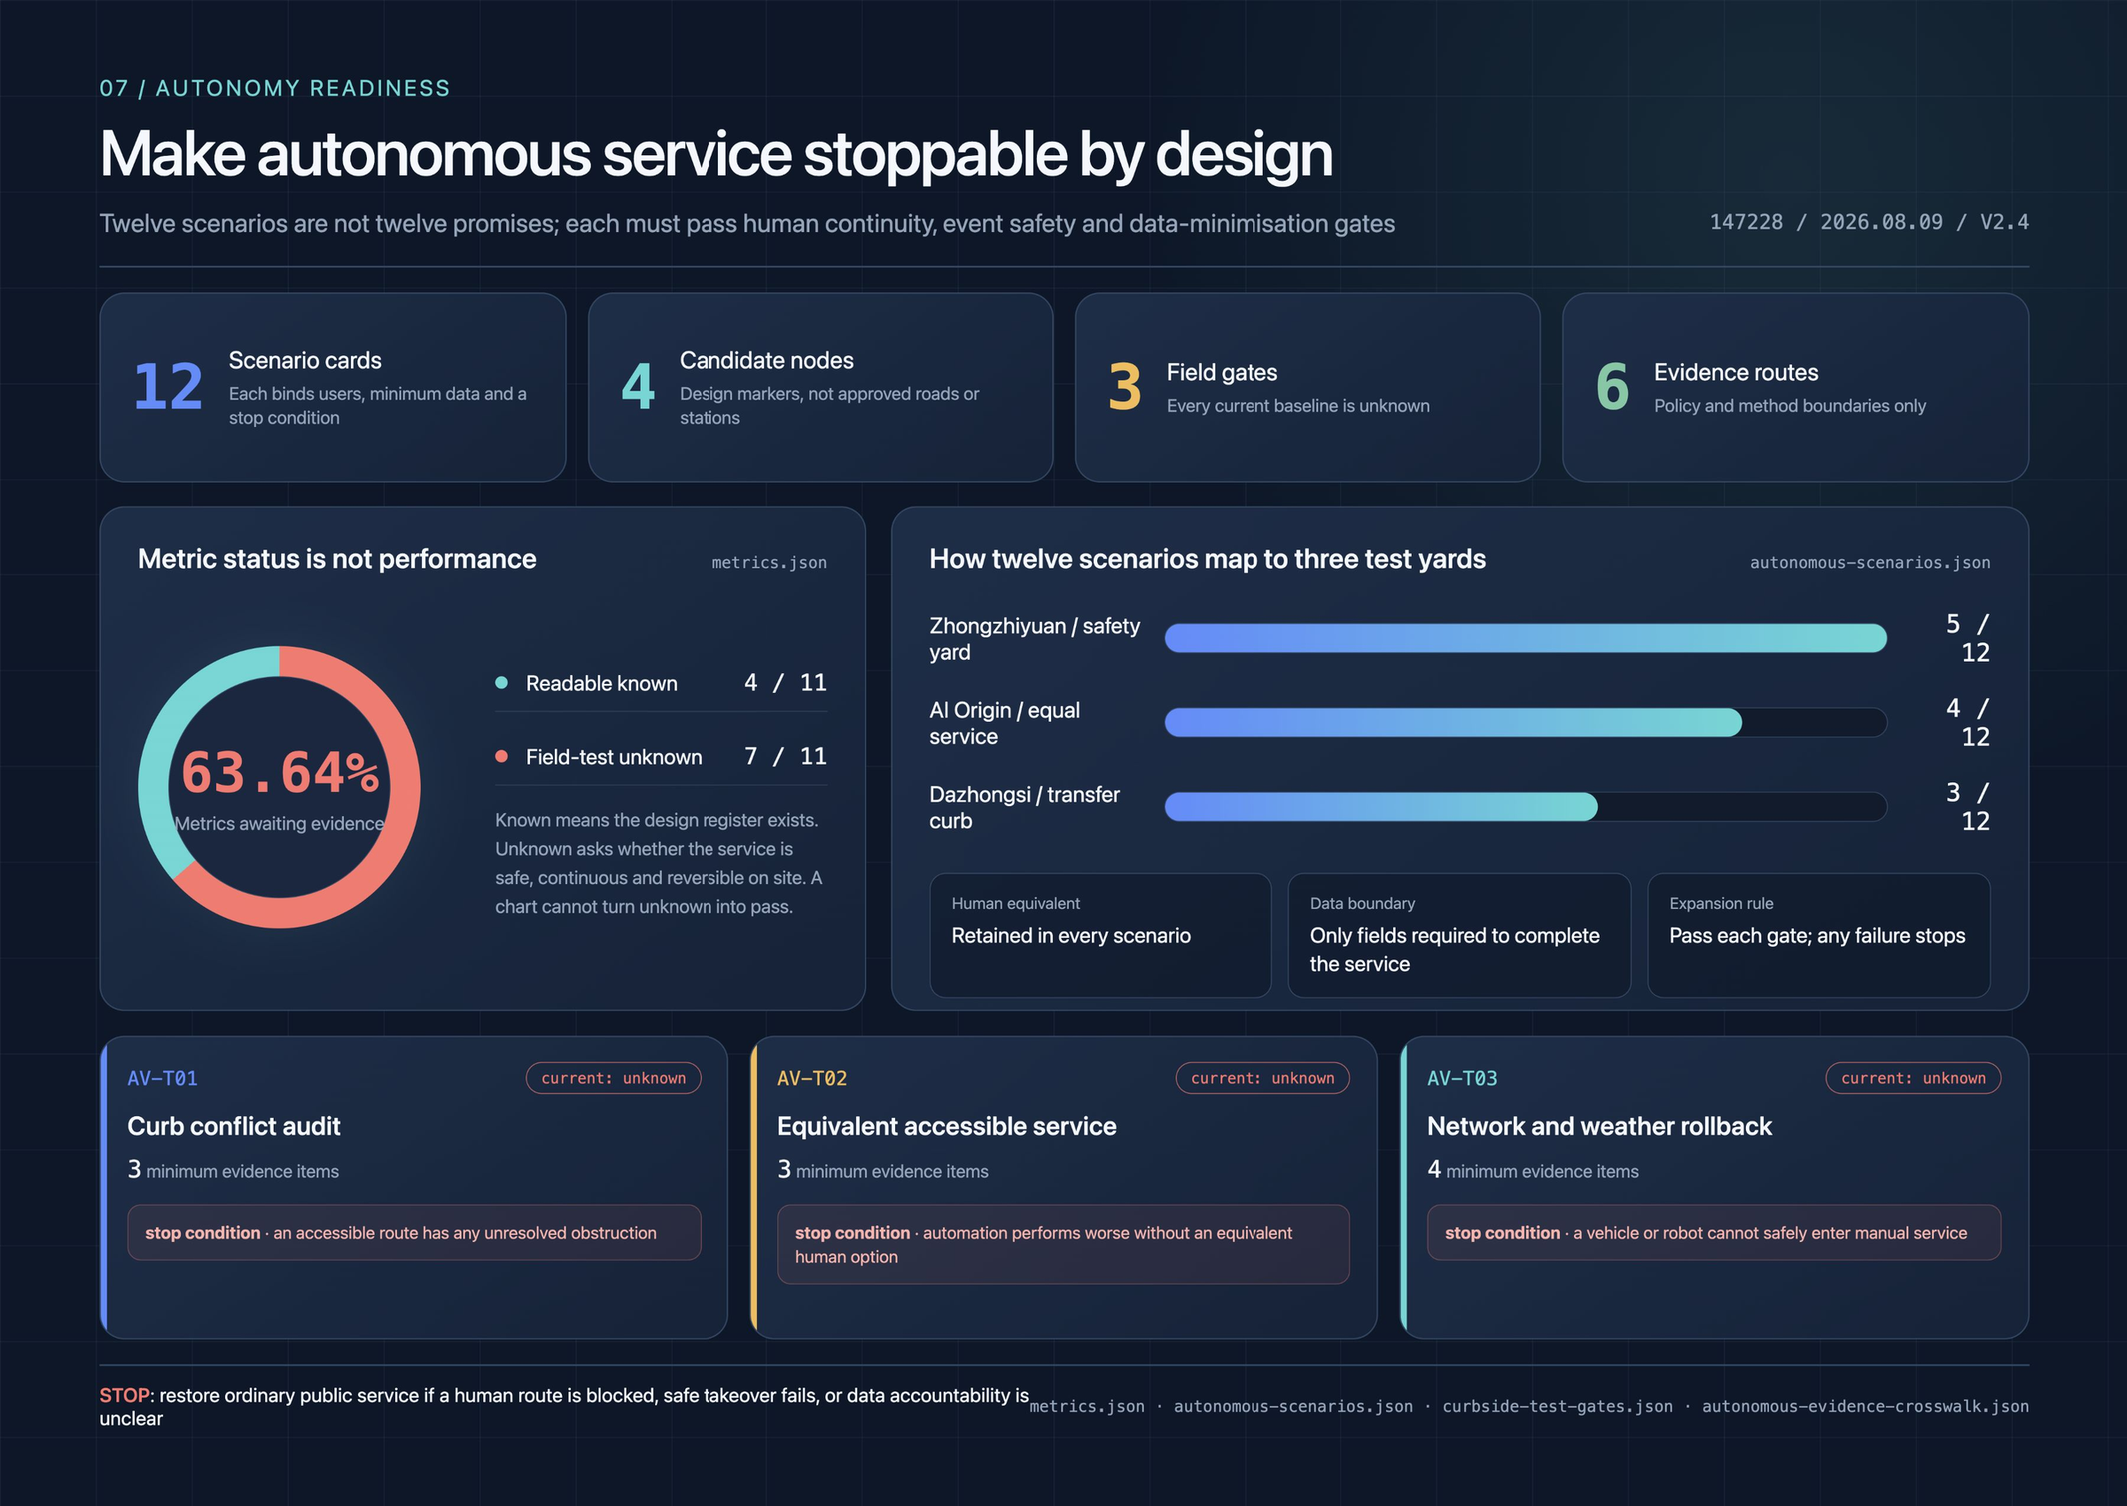
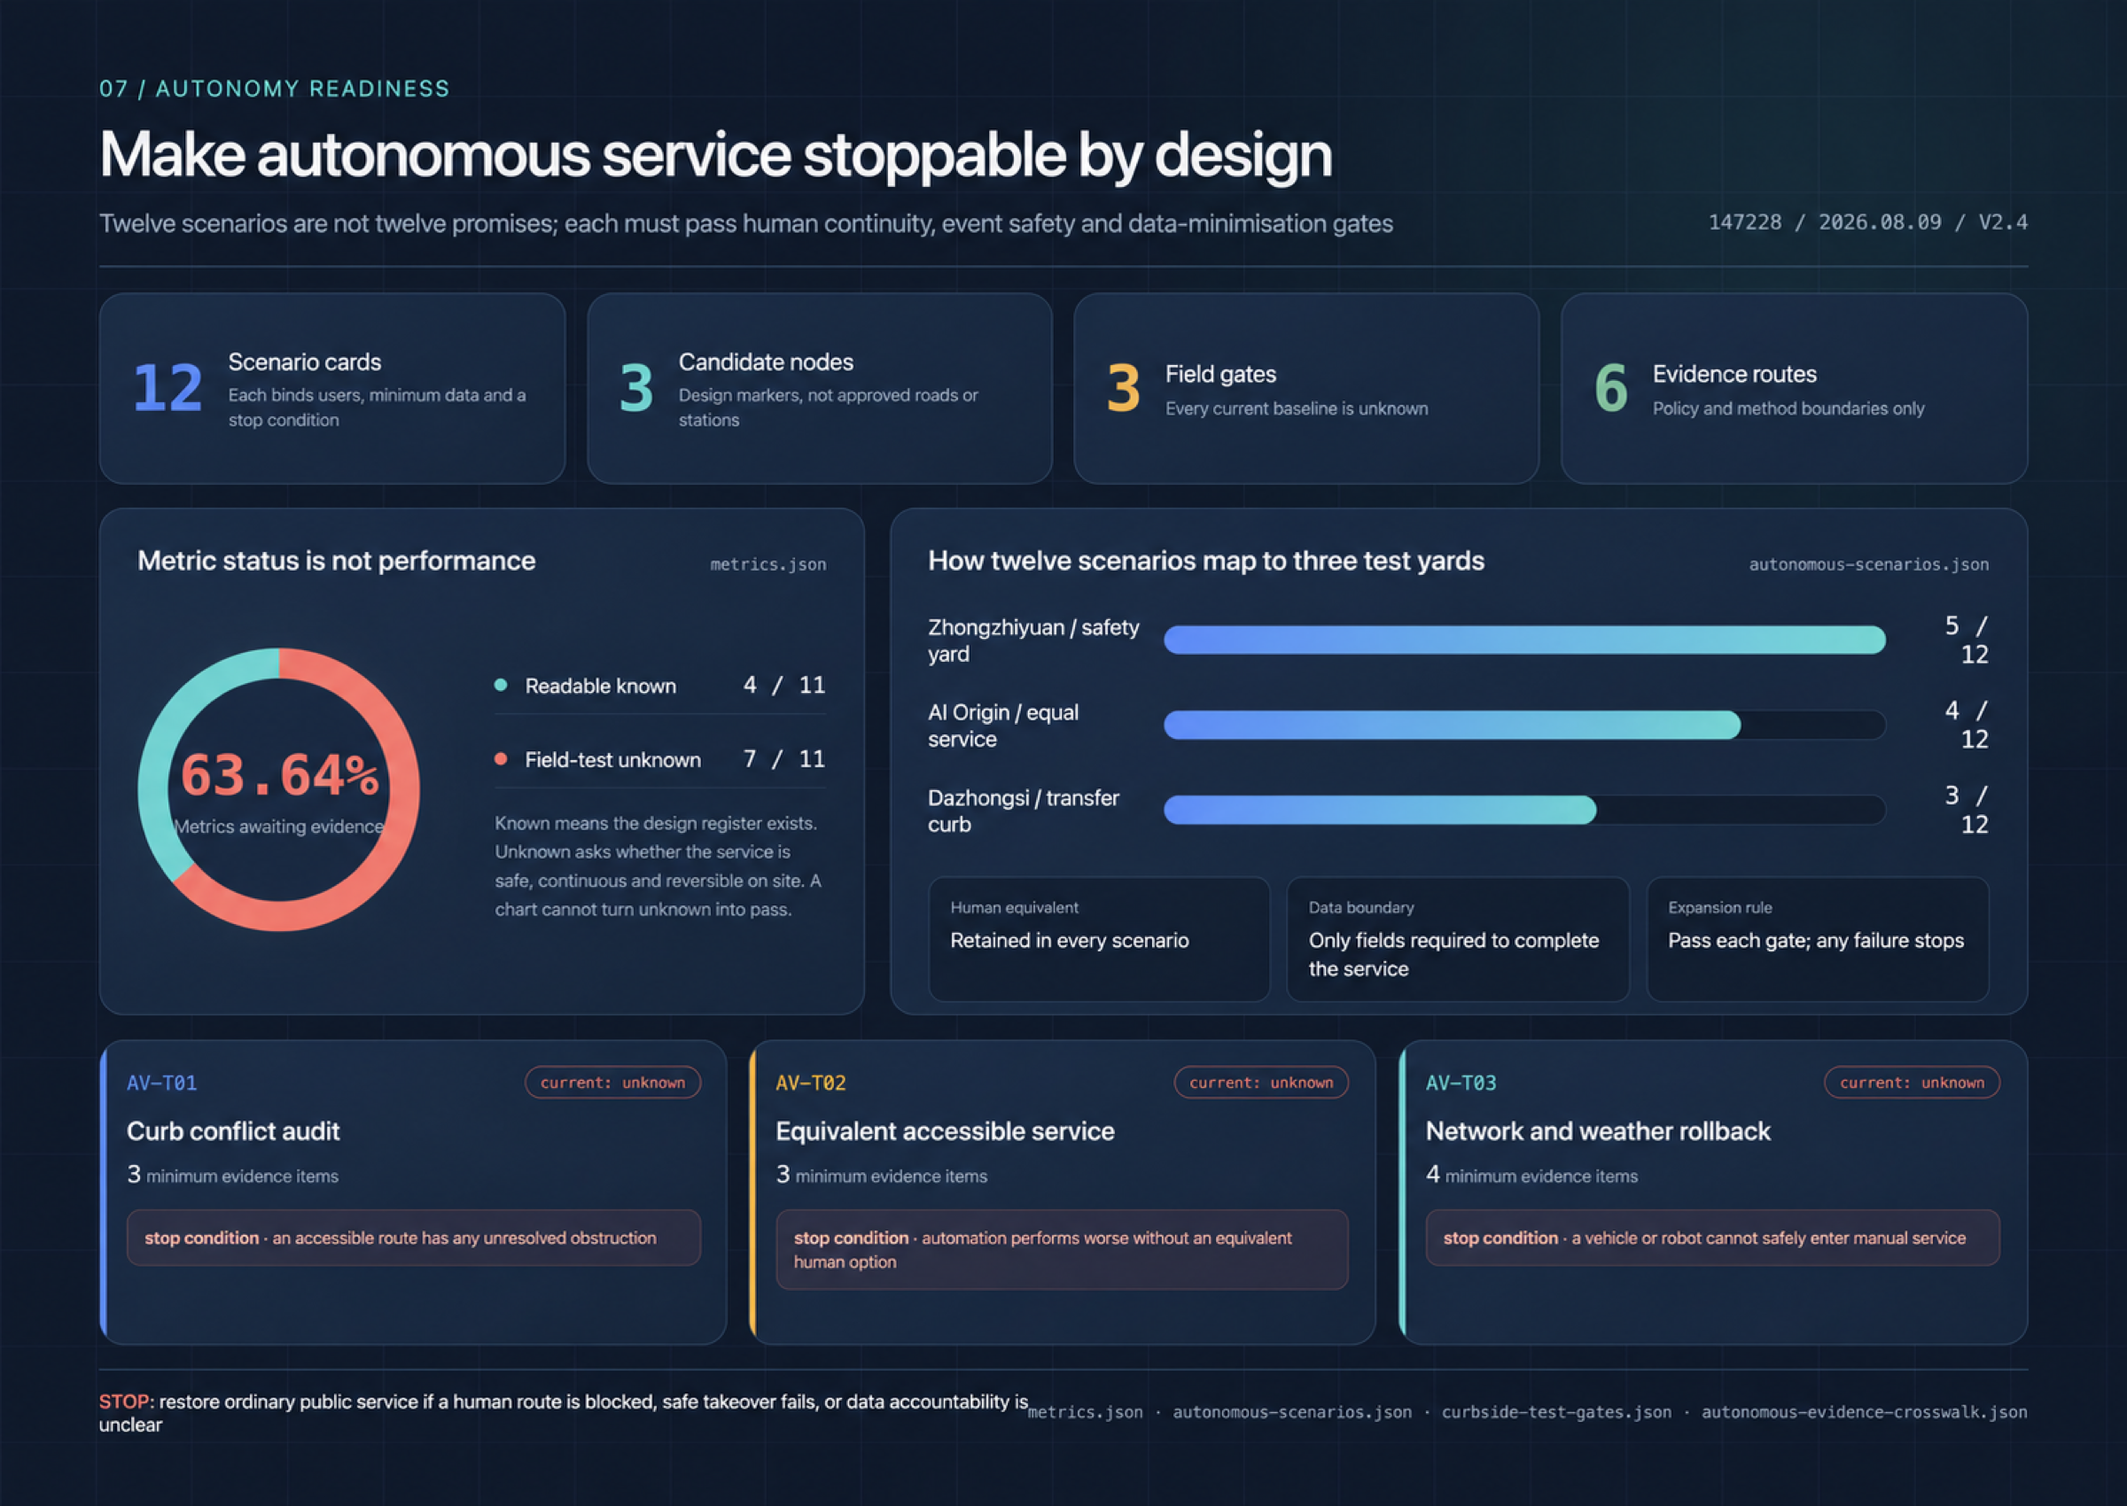
chore(submission): rebase autonomy package onto latest main

diff --git a/submissions/147228/zhongzhiyuan-autonomy-commons/visual/index.en.html b/submissions/147228/zhongzhiyuan-autonomy-commons/visual/index.en.html
@@ -13,7 +13,7 @@
 <section><h2>Three test yards</h2><div class="yards"><article class="yard"><div class="label">01 / SAFETY</div><h3>Zhongzhiyuan</h3><p>Safety evaluation, simulation, low-speed service and maintenance. First test: visible stop, detour and night rules.</p></article><article class="yard"><div class="label">02 / ACCESS</div><h3>AI Origin</h3><p>Accessible-service yard for community, students and wheelchair users. Automation must have an equal human route.</p></article><article class="yard"><div class="label">03 / MIX</div><h3>Dazhongsi</h3><p>Transfer living room for rail, walking, cycles, logistics and events. Home routes cannot be displaced by vehicles.</p></article></div><figure class="figure"><img src="../assets/figures/site-overview.en.png" alt="Three autonomy test yards and human-first audit route"><figcaption>Three provisional test yards connected by a human-first audit route. The line is not a vehicle route.</figcaption></figure></section>
 <section><h2>The curb is the interface</h2><p>Register who may stop, when, for how long and who clears the space before deciding where automation enters. The curb can be open, booked, service, restricted or human-only. Any failure of accessibility, fire clearance or take-over returns the service to people.</p><figure class="figure"><img src="../assets/figures/mobility-bluegreen.en.png" alt="Curb and route layers"><figcaption>Human chain → cycle buffer → autonomy curb → safety clear zone.</figcaption></figure></section>
 <section><h2>Evidence gates</h2><div class="gates"><article class="gate"><div class="label">01 / CONTINUITY</div><h3>Keep the slowest person moving</h3><strong>0 irreplaceable breaks</strong><p>Wheelchair, child, care and maintenance routes must remain complete.</p></article><article class="gate"><div class="label">02 / SAFETY</div><h3>Stop before scale</h3><strong>100% stop / take-over</strong><p>AV-T01—T03 test curb conflict, equal service and offline/weather fallback.</p></article><article class="gate"><div class="label">03 / GOVERNANCE</div><h3>Use the minimum data</h3><strong>Anonymous aggregate + human review</strong><p>No resident tracking, no app-only service, and every decision has an exit path.</p></article></div><figure class="figure"><img src="../assets/figures/metrics-evidence.en.png" alt="Evidence gates and continuation rule"><figcaption>Known, design target and unknown are kept separate; unknown never means pass.</figcaption></figure></section>
-<section><h2>Evidence ledger</h2><div class="data-ledger" aria-label="Design base and autonomy metric status"><article class="ledger-summary"><div class="ledger-kicker">AUTONOMY METRICS / STATUS MIX</div><div class="ledger-ring" role="img" aria-label="4 of 11 autonomy-specific metrics are known"><div class="ledger-core"><b>4 / 11</b><span>known</span></div></div><h3>Structure known, performance pending</h3><p>This is not a quality score. It separates package facts from field measurements that are still required.</p><div class="ledger-stats"><div><b>04</b><small>KNOWN</small></div><div><b>07</b><small>UNKNOWN</small></div></div></article><article class="ledger-chart"><h3>Base ratios and evidence status</h3><div class="ledger-facts"><div class="ledger-fact"><small>PROVISIONAL SITE</small><b>11.41 km²</b><em>recalculated from GeoJSON</em></div><div class="ledger-fact"><small>AUTONOMY STRUCTURE</small><b>11 metrics</b><em>4 known · 7 unknown</em></div></div><div class="ledger-bar"><div class="ledger-bar-head"><span>Green ratio</span><b>12.34%</b></div><div class="ledger-bar-track"><i style="width:12.34%"></i></div><small>Spatial structure fact, not an ecological performance claim.</small></div><div class="ledger-bar"><div class="ledger-bar-head"><span>Public-space ratio</span><b>7.33%</b></div><div class="ledger-bar-track"><i style="width:7.33%"></i></div><small>Recalculate when official geometry is supplied.</small></div><div class="ledger-bar unknown"><div class="ledger-bar-head"><span>Unknown-metric share</span><b>63.64%</b></div><div class="ledger-bar-track"><i style="width:63.64%"></i></div><small>7 ÷ 11; coral marks missing field evidence, not project quality or failure.</small></div><div class="ledger-rule"><strong>Rule:</strong> unknown is never filled as zero, 100% or pass.</div></article></div><figure class="figure"><img src="../assets/figures/autonomy-readiness.en.png" alt="Autonomy readiness data dashboard"><figcaption><strong>DATA PLATE</strong> Twelve scenarios, four candidate nodes, three field gates, six evidence routes and eleven autonomy-specific metrics are read from machine-readable registers; coral means pending evidence only.</figcaption></figure><div class="links"><a href="../metrics.json">metrics.json</a><a href="assets/autonomous-evidence-crosswalk.json">evidence crosswalk</a></div></section>
+<section><h2>Evidence ledger</h2><div class="data-ledger" aria-label="Design base and autonomy metric status"><article class="ledger-summary"><div class="ledger-kicker">AUTONOMY METRICS / STATUS MIX</div><div class="ledger-ring" role="img" aria-label="4 of 11 autonomy-specific metrics are known"><div class="ledger-core"><b>4 / 11</b><span>known</span></div></div><h3>Structure known, performance pending</h3><p>This is not a quality score. It separates package facts from field measurements that are still required.</p><div class="ledger-stats"><div><b>04</b><small>KNOWN</small></div><div><b>07</b><small>UNKNOWN</small></div></div></article><article class="ledger-chart"><h3>Base ratios and evidence status</h3><div class="ledger-facts"><div class="ledger-fact"><small>PROVISIONAL SITE</small><b>11.41 km²</b><em>recalculated from GeoJSON</em></div><div class="ledger-fact"><small>AUTONOMY STRUCTURE</small><b>11 metrics</b><em>4 known · 7 unknown</em></div></div><div class="ledger-bar"><div class="ledger-bar-head"><span>Green ratio</span><b>12.34%</b></div><div class="ledger-bar-track"><i style="width:12.34%"></i></div><small>Spatial structure fact, not an ecological performance claim.</small></div><div class="ledger-bar"><div class="ledger-bar-head"><span>Public-space ratio</span><b>7.33%</b></div><div class="ledger-bar-track"><i style="width:7.33%"></i></div><small>Recalculate when official geometry is supplied.</small></div><div class="ledger-bar unknown"><div class="ledger-bar-head"><span>Unknown-metric share</span><b>63.64%</b></div><div class="ledger-bar-track"><i style="width:63.64%"></i></div><small>7 ÷ 11; coral marks missing field evidence, not project quality or failure.</small></div><div class="ledger-rule"><strong>Rule:</strong> unknown is never filled as zero, 100% or pass.</div></article></div><figure class="figure"><img src="../assets/figures/autonomy-readiness.en.png" alt="Autonomy readiness data dashboard"><figcaption><strong>DATA PLATE</strong> Twelve scenarios, three candidate nodes, three field gates, six evidence routes and eleven autonomy-specific metrics are read from machine-readable registers; coral means pending evidence only.</figcaption></figure><div class="links"><a href="../metrics.json">metrics.json</a><a href="assets/autonomous-evidence-crosswalk.json">evidence crosswalk</a></div></section>
 <section><h2>12 scenario cards</h2><div class="scenarios"><div class="scenario"><b>AV-01</b><span>Accessible appointment ride</span></div><div class="scenario"><b>AV-02</b><span>Low-speed shuttle</span></div><div class="scenario"><b>AV-03</b><span>Station last-mile transfer</span></div><div class="scenario"><b>AV-04</b><span>Night maintenance</span></div><div class="scenario"><b>AV-05</b><span>Rain / snow fallback</span></div><div class="scenario"><b>AV-06</b><span>Booked curb loading</span></div><div class="scenario"><b>AV-07</b><span>Event-day separation</span></div><div class="scenario"><b>AV-08</b><span>Offline safe return</span></div><div class="scenario"><b>AV-09</b><span>Child / elder companion</span></div><div class="scenario"><b>AV-10</b><span>Public asset inspection</span></div><div class="scenario"><b>AV-11</b><span>Open safety review</span></div><div class="scenario"><b>AV-12</b><span>Complaint and exit</span></div></div></section>
 <section><h2>Phasing</h2><div class="phases"><article class="phase"><div class="label">P0 / NOW—2027</div><h3>Readable curb</h3><p>Audit accessibility, register curb states, publish complaints and preserve human service.</p></article><article class="phase"><div class="label">P1 / 2027—2030</div><h3>Limited trials</h3><p>Approved, supervised, low-speed windows only. Publish aggregate events and closures.</p></article><article class="phase"><div class="label">P2 / 2030+</div><h3>Expand or stop</h3><p>Scale only after safety, traffic, ecology, privacy, participation and insurance review.</p></article></div><figure class="figure"><img src="../assets/figures/key-areas.en.png" alt="Roles of the three test yards"><figcaption>Each yard has a duty and a stop condition; none is a deployment claim.</figcaption></figure></section>
 <section><h2>Evidence package</h2><div class="links"><a href="../proposal.en.md">proposal.en.md</a><a href="../metrics.json">metrics.json</a><a href="../assumptions.json">assumptions.json</a><a href="../sources.json">sources.json</a><a href="assets/autonomy_nodes.json">autonomy_nodes.json</a><a href="assets/autonomous-scenarios.json">scenario register</a><a href="assets/curbside-test-gates.json">test gates</a></div></section>

diff --git a/submissions/147228/zhongzhiyuan-autonomy-commons/visual/index.html b/submissions/147228/zhongzhiyuan-autonomy-commons/visual/index.html
@@ -70,7 +70,7 @@
     <table class="gate-table"><thead><tr><th>GATE</th><th>要回答的问题</th><th>最低证据</th><th>当前状态</th></tr></thead><tbody>
       <tr><td>AV-T01<br>路缘冲突</td><td>车辆/机器人是否阻断人行、无障碍、消防或装卸秩序？</td><td>现场计数、事件日志、人工复核</td><td><span class="status unknown">UNKNOWN</span></td></tr>
       <tr><td>AV-T02<br>等价服务</td><td>自动化是否让不能用 App 的人失去同一项服务？</td><td>分层参与测试、人工路线对照、申诉记录</td><td><span class="status unknown">UNKNOWN</span></td></tr>
-      <tr><td>AV-T03<br>回退能力</td><td>断网、雨雪、热浪、拥挤时能否安全停止并转人工？</td><td>远程/物理急停、广播、撤离和恢复记录</td><td><span class="status target">DESIGN TARGET</span></td></tr>
+      <tr><td>AV-T03<br>回退能力</td><td>断网、雨雪、热浪、拥挤时能否安全停止并转人工？</td><td>远程/物理急停、广播、撤离和恢复记录</td><td><span class="status unknown">UNKNOWN</span></td></tr>
     </tbody></table>
     <figure class="figure"><img src="../assets/figures/metrics-evidence.png" alt="自动驾驶指标和证据链"><figcaption><strong>FIG 03</strong> 任何未来指标都带状态、公式、责任人和停止条件；模拟分数不能替代现场证据。</figcaption></figure>
   </section>
@@ -81,7 +81,7 @@
       <article class="data-summary"><div class="data-kicker">AUTONOMY METRICS / STATUS MIX</div><div class="data-ring" role="img" aria-label="11 项自动驾驶专属指标中 4 项已知，7 项未知"><div class="ring-core"><b>4 / 11</b><span>known</span></div></div><h3>结构已知，绩效待测</h3><p>这不是质量评分，而是提交包的证据状态：能从文件回读的结构事实，与必须现场测量的性能缺口分开。</p><div class="data-state-grid"><div class="data-state known"><b>04</b><small>KNOWN / 已知</small></div><div class="data-state unknown"><b>07</b><small>UNKNOWN / 待测</small></div></div></article>
       <article class="data-chart"><div class="chart-head"><h3>底盘比例与证据状态</h3><span>0—100% SCALE</span></div><div class="chart-facts"><div class="chart-fact"><small>PROVISIONAL SITE</small><b>11.41 km²</b><em>面积从 GeoJSON 复算</em></div><div class="chart-fact"><small>AUTONOMY STRUCTURE</small><b>11 metrics</b><em>4 known · 7 unknown</em></div></div><div class="chart-row"><div class="row-head"><span>绿地比例 / GREEN RATIO</span><b>12.34%</b></div><div class="chart-track"><i style="width:12.34%"></i></div><small>设计底盘的空间结构事实，不是生态绩效结论</small></div><div class="chart-row"><div class="row-head"><span>公共空间比例 / PUBLIC SPACE</span><b>7.33%</b></div><div class="chart-track"><i style="width:7.33%"></i></div><small>从提交包图层复算；官方边界到位后重算</small></div><div class="chart-row unknown"><div class="row-head"><span>待测指标占比 / UNKNOWN SHARE</span><b>63.64%</b></div><div class="chart-track"><i style="width:63.64%"></i></div><small>7 ÷ 11；珊瑚色表示现场证据尚未到位，不代表项目质量或不达标</small></div><div class="chart-note"><strong>读图规则</strong>　青色是可回读事实，珊瑚色是待现场证据；任何未知项都不会被填成 0、100% 或“已达标”。</div></article>
     </div>
-    <figure class="figure"><img src="../assets/figures/autonomy-readiness.png" alt="自动驾驶准备度数据看板"><figcaption><strong>DATA PLATE</strong> 12 个场景、4 个候选节点、3 道现场闸门、6 条证据路由与 11 项专属指标均由机器可读台账回读；珊瑚色只表示待测。</figcaption></figure>
+    <figure class="figure"><img src="../assets/figures/autonomy-readiness.png" alt="自动驾驶准备度数据看板"><figcaption><strong>DATA PLATE</strong> 12 个场景、3 个候选节点、3 道现场闸门、6 条证据路由与 11 项专属指标均由机器可读台账回读；珊瑚色只表示待测。</figcaption></figure>
     <div class="links"><a href="../metrics.json">打开完整 metrics.json</a><a href="assets/autonomous-evidence-crosswalk.json">打开证据交叉索引</a></div>
   </section>
 

diff --git a/submissions/147228/zhongzhiyuan-autonomy-commons/changelog.md b/submissions/147228/zhongzhiyuan-autonomy-commons/changelog.md
@@ -1,5 +1,16 @@
 # 方案迭代记录
 
+## v3.1 - 2026-08-10
+
+- Aligned the Chinese AV-T03 rollback-gate status with `visual/assets/curbside-test-gates.json`: `baseline: unknown` now renders as `UNKNOWN`, rather than visually upgrading an unmeasured weather/network outcome to a design target.
+- Refreshed matching manifest and copyright-ledger hashes for the changed visual index, figures and changelog; no gate register value, performance result, permit, deployment or official-score claim changed.
+
+## v3.0 - 2026-08-10
+
+- Corrected the bilingual autonomy-readiness data plate and its visual-index captions from four candidate nodes to three, matching `visual/assets/autonomy_nodes.json` (`AUTO-NODE-001` through `AUTO-NODE-003`).
+- Revalidated the 2400 × 1700 figures after a surgical presentation edit; the register, scenario count, gate count and metric status are unchanged.
+- This is a figure-integrity correction only; it adds no road, permit, deployment, performance or official-score claim.
+
 ## v2.9 - 2026-08-09
 
 - Added bilingual acceptance-trace quick maps so reviewers can follow each check to its gate, fixture, scenario or boundary field without searching the contract; the maps are reading aids only and the runner remains the source of structural validation.
